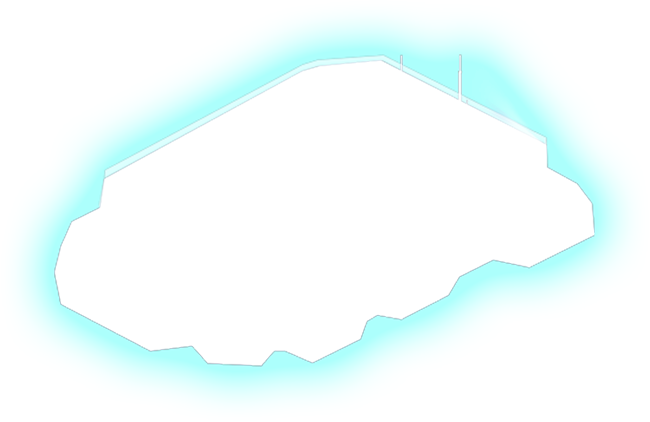
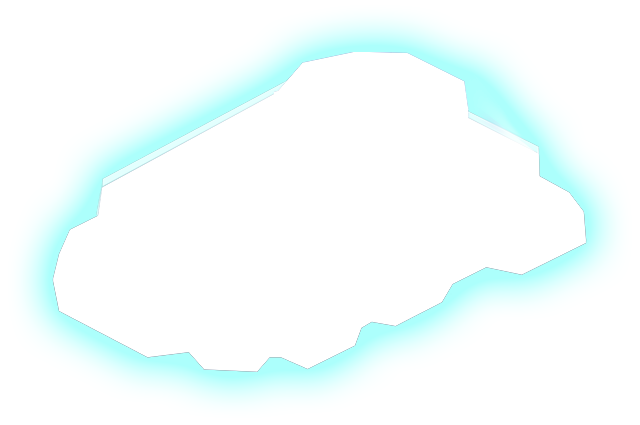
arena 3 state

diff --git a/src/buildings/config.ts b/src/buildings/config.ts
@@ -10,8 +10,12 @@ import musicTowerLevel2Img from './music/2.png';
 import musicTowerLevel2Stroke from './music/2-stroke.png';
 import musicTowerLevel3Img from './music/3.png';
 import musicTowerLevel3Stroke from './music/3-stroke.png';
+import arenaTowerLevel1Img from './arena/1.png';
+import arenaTowerLevel1Stroke from './arena/1-stroke.png';
 import arenaTowerLevel2Img from './arena/2.png';
 import arenaTowerLevel2Stroke from './arena/2-stroke.png';
+import arenaTowerLevel3Img from './arena/3.png';
+import arenaTowerLevel3Stroke from './arena/3-stroke.png';
 import mollTowerLevel1Img from './moll/1.png';
 import mollTowerLevel2Img from './moll/2.png';
 import mollTowerLevel3Img from './moll/3.png';
@@ -157,32 +161,30 @@ export class BuildingsService {
       title: 'МТС Арена',
       coords: [3537, 1408],
       zIndex: ZIndexes.BUILDING_ONE_LEVEL,
-      maxLevel: TowerLevel.mid,
+      maxLevel: TowerLevel.high,
       [TowerLevel.low]: {
-        // TODO: не настоящая картинка
-        img: musicTowerLevel1Img,
-        width: 1,
-        height: 2,
-        shadowImg: musicTowerLevel1Stroke,
-        areaCoords: '128,57,418,291',
-        position: [42.2, 36.9],
+        img: arenaTowerLevel1Img,
+        width: 566,
+        height: 371,
+        shadowImg: arenaTowerLevel1Stroke,
+        areaCoords: '48,47,514,314',
+        position: [23.3, 42],
       },
       [TowerLevel.mid]: {
         img: arenaTowerLevel2Img,
-        width: 650,
-        height: 422,
+        width: 640,
+        height: 425,
         shadowImg: arenaTowerLevel2Stroke,
-        areaCoords: '590,60,64,365',
-        position: [22.3, 41.5],
+        areaCoords: '52,47,583,372',
+        position: [22.3, 41.3],
       },
       [TowerLevel.high]: {
-        // TODO: не настоящая картинка
-        img: musicTowerLevel3Img,
-        width: 1,
-        height: 2,
-        shadowImg: musicTowerLevel3Stroke,
-        areaCoords: '84,118,319,659',
-        position: [40.8, 37.4],
+        img: arenaTowerLevel3Img,
+        width: 699,
+        height: 466,
+        shadowImg: arenaTowerLevel3Stroke,
+        areaCoords: '44,53,649,413',
+        position: [21.78, 41.3],
       },
     },
     [TowersTypes.MOLL]: {

diff --git a/src/effector/towers-progress/store.ts b/src/effector/towers-progress/store.ts
@@ -39,7 +39,7 @@ const initState: TowersProgressStoreType = {
     progress: 0,
   },
   [TowersTypes.ARENA]: {
-    level: TowerLevel.mid,
+    level: TowerLevel.low,
     progress: 0,
   },
   [TowersTypes.MOLL]: {
